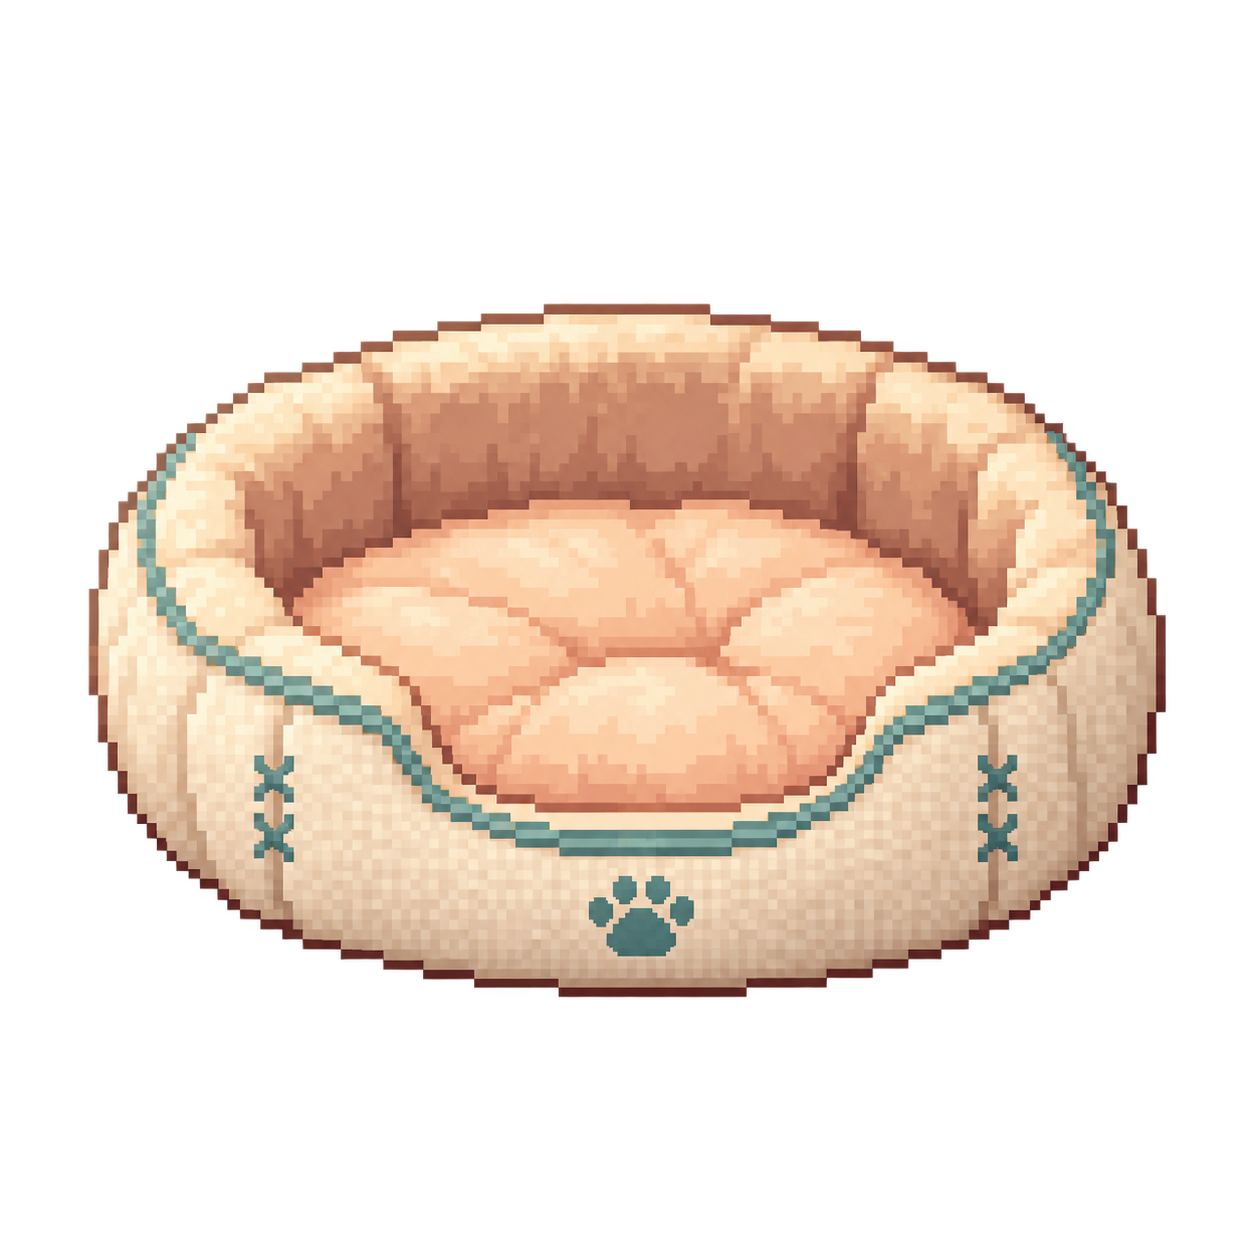
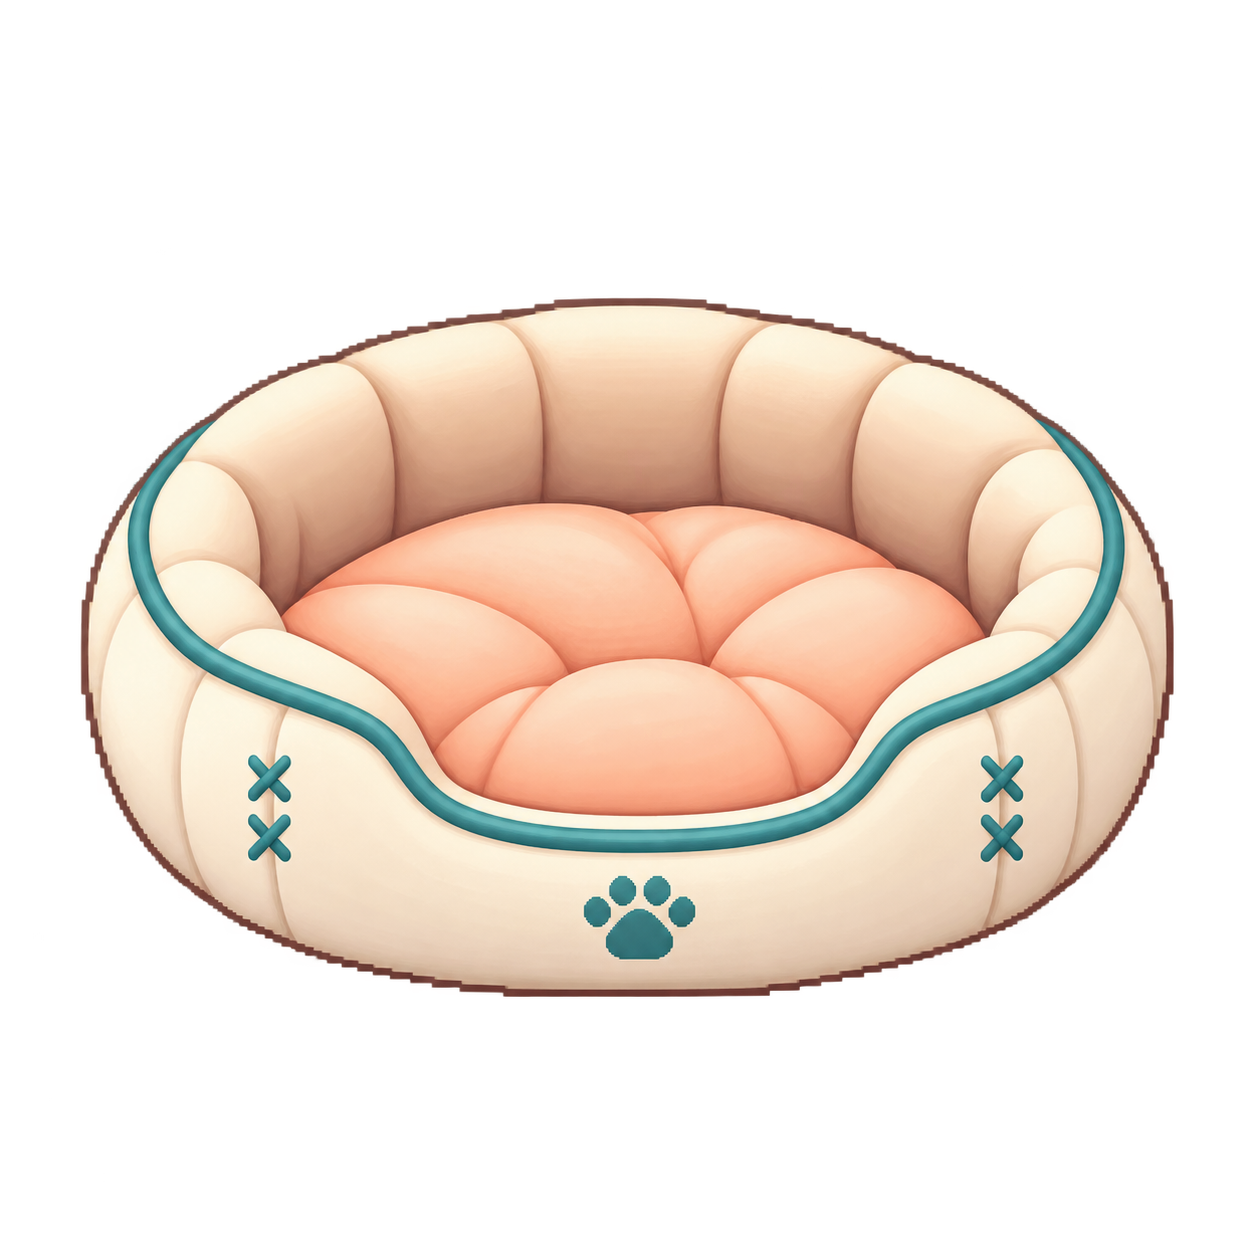
change cat bed design

Changed region(s): [[0.0622, 0.2177, 0.9641, 0.8086], [0.5909, 0.4665, 0.622, 0.4976]]

diff --git a/src/cat/useSharedCatSleepSync.ts b/src/cat/useSharedCatSleepSync.ts
@@ -1,0 +1,82 @@
+'use client';
+
+import { useCallback, useEffect } from 'react';
+
+type SleepSyncClient = {
+  from: (table: string) => any;
+  channel?: (name: string) => any;
+  removeChannel?: (channel: any) => Promise<unknown> | unknown;
+};
+
+/**
+ * Keeps the floating cat-bed sleep state account-scoped across every host.
+ * The database row is the cross-domain source of truth; Realtime makes open
+ * apps react immediately while their existing snapshot reads cover reloads.
+ */
+export function useSharedCatSleepSync(
+  client: SleepSyncClient | null | undefined,
+  userId: string | null | undefined,
+  onSleepChange: (sleeping: boolean) => void,
+) {
+  useEffect(() => {
+    if (!client || !userId) return;
+
+    let cancelled = false;
+    const refresh = async () => {
+      const { data, error } = await client
+        .from('inventory_pet')
+        .select('is_sleeping')
+        .eq('user_id', userId)
+        .maybeSingle();
+      if (!cancelled && !error && typeof data?.is_sleeping === 'boolean') {
+        onSleepChange(data.is_sleeping);
+      }
+    };
+    const handleFocus = () => void refresh();
+    const handleVisibility = () => {
+      if (document.visibilityState === 'visible') void refresh();
+    };
+
+    void refresh();
+    window.addEventListener('focus', handleFocus);
+    document.addEventListener('visibilitychange', handleVisibility);
+
+    const channel = client.channel?.(
+      `shared-cat-sleep:${userId}`,
+    )
+      ?.on(
+        'postgres_changes',
+        { event: 'UPDATE', schema: 'public', table: 'inventory_pet', filter: `user_id=eq.${userId}` },
+        (payload: { new?: { is_sleeping?: boolean | null } }) => {
+          if (typeof payload.new?.is_sleeping === 'boolean') {
+            onSleepChange(payload.new.is_sleeping);
+          }
+        },
+      )
+      .subscribe();
+
+    return () => {
+      cancelled = true;
+      window.removeEventListener('focus', handleFocus);
+      document.removeEventListener('visibilitychange', handleVisibility);
+      if (channel && client.removeChannel) void client.removeChannel(channel);
+      else channel?.unsubscribe?.();
+    };
+  }, [client, onSleepChange, userId]);
+
+  return useCallback(async (sleeping: boolean) => {
+    onSleepChange(sleeping);
+    window.dispatchEvent(new CustomEvent('virtual-pet-sleep-change', { detail: sleeping }));
+    if (!client || !userId) return;
+
+    const { error } = await client
+      .from('inventory_pet')
+      .update({ is_sleeping: sleeping })
+      .eq('user_id', userId);
+    if (error) {
+      onSleepChange(!sleeping);
+      window.dispatchEvent(new CustomEvent('virtual-pet-sleep-change', { detail: !sleeping }));
+      console.error('Failed to synchronize cat sleep state:', error);
+    }
+  }, [client, onSleepChange, userId]);
+}

diff --git a/src/cat/SharedCatMascot.tsx b/src/cat/SharedCatMascot.tsx
@@ -53,6 +53,7 @@ export function SharedCatMascot({
   disabled = false,
   petId,
   isSleeping = false,
+  onSleepingChange,
   dialogue = { kind: 'none' },
   meowMessage = null,
   onCatClick,
@@ -109,6 +110,20 @@ export function SharedCatMascot({
       onArrive?.();
     }, duration * 1000);
   }, [getInterpolatedPos]);
+
+  useEffect(() => {
+    if (isSleeping) {
+      isCatBedActiveRef.current = true;
+      setIsCatBedActive(true);
+      setIsCatBedSleepReady(true);
+      return;
+    }
+    if (isCatBedActiveRef.current && isCatBedSleepReady) {
+      isCatBedActiveRef.current = false;
+      setIsCatBedActive(false);
+      setIsCatBedSleepReady(false);
+    }
+  }, [isCatBedSleepReady, isSleeping]);
 
   useEffect(() => {
     const updateCatBedPosition = () => {
@@ -257,6 +272,7 @@ export function SharedCatMascot({
       isCatBedActiveRef.current = false;
       setIsCatBedActive(false);
       setIsCatBedSleepReady(false);
+      void onSleepingChange?.(false);
       moveCatTo({
         x: Math.max(5, ((bedRect.left - 54) / window.innerWidth) * 100),
         y: Math.min(94, ((bedRect.top + bedRect.height * 0.78) / window.innerHeight) * 100),
@@ -271,7 +287,10 @@ export function SharedCatMascot({
       x: ((bedRect.left + bedRect.width / 2) / window.innerWidth) * 100,
       y: ((bedRect.top + bedRect.height * 0.78) / window.innerHeight) * 100,
     }, () => {
-      if (isCatBedActiveRef.current) setIsCatBedSleepReady(true);
+      if (isCatBedActiveRef.current) {
+        setIsCatBedSleepReady(true);
+        void onSleepingChange?.(true);
+      }
     });
   };
 
@@ -323,7 +342,7 @@ export function SharedCatMascot({
       )}
     </button>
     <div
-      className="molar-cat-wrapper"
+      className={`molar-cat-wrapper ${isCatBedActive ? 'molar-cat-wrapper--bed-active' : ''}`}
       style={{
         left: `${catPos.x}%`,
         top: `${catPos.y}%`,
@@ -331,6 +350,7 @@ export function SharedCatMascot({
         transition: `left ${walkDuration}s linear, top ${walkDuration}s linear`,
       }}
     >
+      <div className="molar-cat-dialogue-layer">
       <AnimatePresence mode="wait">{bubbleContent}</AnimatePresence>
       <AnimatePresence mode="wait">
         {dialogue.kind === 'sequence' && (
@@ -445,6 +465,8 @@ export function SharedCatMascot({
           </motion.div>
         )}
       </AnimatePresence>
+
+      </div>
 
       {!isCatBedSleepReady && (
         <div

diff --git a/src/apps/todo/TodoCatMascot.jsx b/src/apps/todo/TodoCatMascot.jsx
@@ -20,7 +20,7 @@
 // Manual browser parity is the acceptance gate for whether that specific
 // behavioral difference is acceptable.
 import { useCallback, useEffect, useMemo, useRef, useState } from 'react';
-import { SharedCatMascot, useSharedCatDialogueRuntime, readSharedPetName, writeSharedPetName, getSharedPetNameStorageKey, resolveCatAuthStatus } from '../../cat';
+import { SharedCatMascot, useSharedCatDialogueRuntime, useSharedCatSleepSync, readSharedPetName, writeSharedPetName, getSharedPetNameStorageKey, resolveCatAuthStatus } from '../../cat';
 import { normalizePetId } from '../../pet/publicOptions';
 import { usePersonalizedInsightBridge } from './petDialogue/PersonalizedInsightBridge';
 import { CAT_SPRITE_SHEET_URLS } from '../../resources';
@@ -69,6 +69,7 @@ const introCompletedLocally = (uid) => {
 export function createTodoCatMascot(supabase) {
 return function TodoCatMascot({ onCatClick, disabled = false, userId = null, authStatus }) {
   const [isPetSleeping, setIsPetSleeping] = useState(() => readCatStorage(userId, PET_SLEEPING_KEY) === 'true');
+  const handleCatBedSleepChange = useSharedCatSleepSync(supabase, userId, setIsPetSleeping);
   const resolvedAuthStatus = resolveCatAuthStatus(authStatus, disabled, userId);
   const initialPetName = readSharedPetName(userId);
   const [selectedPetId, setSelectedPetId] = useState(() => resolvedAuthStatus === 'guest' || initialPetName ? normalizePetId(initialPetName) : null);
@@ -570,6 +571,7 @@ return function TodoCatMascot({ onCatClick, disabled = false, userId = null, aut
       disabled={disabled}
       petId={selectedPetId}
       isSleeping={isPetSleeping}
+      onSleepingChange={handleCatBedSleepChange}
       dialogue={dialogue}
       meowMessage={meowMsg}
       onCatClick={handleCatClick}

diff --git a/src/apps/InventoryCatMascot.jsx b/src/apps/InventoryCatMascot.jsx
@@ -2,7 +2,7 @@
 import { useState, useEffect, useRef, useMemo } from 'react';
 
 import { normalizePetId } from '../pet/publicOptions';
-import { useSharedCatDialogueRuntime, SharedCatMascot, readSharedPetName, writeSharedPetName, getSharedPetNameStorageKey, resolveCatAuthStatus } from '../cat';
+import { useSharedCatDialogueRuntime, useSharedCatSleepSync, SharedCatMascot, readSharedPetName, writeSharedPetName, getSharedPetNameStorageKey, resolveCatAuthStatus } from '../cat';
 import { CAT_SPRITE_SHEET_URLS } from '../resources';
 import { formatInventoryWelcomeBack } from './inventory/petDialogue/inventoryWelcomeBack';
 
@@ -60,6 +60,7 @@ export default function InventoryCatMascot({ supabase, onCatClick, disabled = fa
   // the Phase 7B user-key auth boundary and any React Strict-Mode-driven
   // remount) that requires explicit manual browser acceptance.
   const [isPetSleeping, setIsPetSleeping] = useState(() => readCatStorage(catCacheOwnerId, PET_SLEEPING_KEY) === 'true');
+  const handleCatBedSleepChange = useSharedCatSleepSync(supabase, catCacheOwnerId, setIsPetSleeping);
   const resolvedAuthStatus = resolveCatAuthStatus(authStatus, disabled, catCacheOwnerId);
   const initialPetName = readSharedPetName(catCacheOwnerId);
   const [selectedPetId, setSelectedPetId] = useState(() => resolvedAuthStatus === 'guest' || initialPetName ? normalizePetId(initialPetName) : null);
@@ -591,6 +592,7 @@ export default function InventoryCatMascot({ supabase, onCatClick, disabled = fa
       disabled={disabled}
       petId={selectedPetId}
       isSleeping={isPetSleeping}
+      onSleepingChange={handleCatBedSleepChange}
       dialogue={dialogue}
       meowMessage={meowMsg}
       onCatClick={handleCatClick}

diff --git a/src/apps/calculator/CalculatorCatMascot.jsx b/src/apps/calculator/CalculatorCatMascot.jsx
@@ -22,7 +22,7 @@
 // parity is the acceptance gate for whether that specific behavioral
 // difference is acceptable.
 import { useCallback, useEffect, useMemo, useRef, useState } from 'react';
-import { SharedCatMascot, useSharedCatDialogueRuntime, readSharedPetName, writeSharedPetName, getSharedPetNameStorageKey, resolveCatAuthStatus } from '../../cat';
+import { SharedCatMascot, useSharedCatDialogueRuntime, useSharedCatSleepSync, readSharedPetName, writeSharedPetName, getSharedPetNameStorageKey, resolveCatAuthStatus } from '../../cat';
 import { normalizePetId } from '../../pet/publicOptions';
 import { usePersonalizedInsightBridge } from './petDialogue/PersonalizedInsightBridge';
 import { CAT_SPRITE_SHEET_URLS } from '../../resources';
@@ -48,6 +48,7 @@ export default function CalculatorCatMascot({ supabase, onCatClick, disabled = f
   const [isPetSleeping, setIsPetSleeping] = useState(() => {
     try { return localStorage.getItem(PET_SLEEPING_KEY) === 'true'; } catch { return false; }
   });
+  const handleCatBedSleepChange = useSharedCatSleepSync(supabase, userId, setIsPetSleeping);
   const resolvedAuthStatus = resolveCatAuthStatus(authStatus, disabled, userId);
   const initialPetName = readSharedPetName(userId);
   const [selectedPetId, setSelectedPetId] = useState(() => resolvedAuthStatus === 'guest' || initialPetName ? normalizePetId(initialPetName) : null);
@@ -567,6 +568,7 @@ export default function CalculatorCatMascot({ supabase, onCatClick, disabled = f
       disabled={disabled}
       petId={selectedPetId}
       isSleeping={isPetSleeping}
+      onSleepingChange={handleCatBedSleepChange}
       dialogue={dialogue}
       meowMessage={meowMsg}
       onCatClick={handleCatClick}

diff --git a/src/apps/elearning/ElearningCatMascot.jsx b/src/apps/elearning/ElearningCatMascot.jsx
@@ -3,7 +3,7 @@ import { useState, useEffect, useRef, useMemo } from 'react';
 import { normalizePetId } from '../../pet/publicOptions';
 import { usePersonalizedInsightBridge } from './petDialogue/PersonalizedInsightBridge';
 import { CAT_SPRITE_SHEET_URLS } from '../../resources';
-import { useSharedCatDialogueRuntime, SharedCatMascot, readSharedPetName, writeSharedPetName, getSharedPetNameStorageKey, resolveCatAuthStatus } from '../../cat';
+import { useSharedCatDialogueRuntime, useSharedCatSleepSync, SharedCatMascot, readSharedPetName, writeSharedPetName, getSharedPetNameStorageKey, resolveCatAuthStatus } from '../../cat';
 
 const PET_SLEEPING_KEY = 'pet_is_sleeping';
 const PET_SLEEPING_UPDATED_AT_KEY = 'pet_is_sleeping_updated_at';
@@ -22,6 +22,7 @@ return function ElearningCatMascot({ onCatClick, disabled = false, userId = null
   const [isPetSleeping, setIsPetSleeping] = useState(() => {
     try { return localStorage.getItem(PET_SLEEPING_KEY) === 'true'; } catch { return false; }
   });
+  const handleCatBedSleepChange = useSharedCatSleepSync(supabase, userId, setIsPetSleeping);
   const resolvedAuthStatus = resolveCatAuthStatus(authStatus, disabled, userId);
   const initialPetName = readSharedPetName(userId);
   const [selectedPetId, setSelectedPetId] = useState(() => resolvedAuthStatus === 'guest' || initialPetName ? normalizePetId(initialPetName) : null);
@@ -547,6 +548,7 @@ return function ElearningCatMascot({ onCatClick, disabled = false, userId = null
       disabled={disabled}
       petId={selectedPetId}
       isSleeping={isPetSleeping}
+      onSleepingChange={handleCatBedSleepChange}
       dialogue={dialogue}
       meowMessage={meowMsg}
       onCatClick={handleCatClick}

diff --git a/src/apps/AppointmentCatMascot.jsx b/src/apps/AppointmentCatMascot.jsx
@@ -1,6 +1,6 @@
 'use client';
 import { useState, useEffect, useRef } from 'react';
-import { useSharedCatDialogueRuntime, SharedCatMascot, readSharedPetName, writeSharedPetName, getSharedPetNameStorageKey, resolveCatAuthStatus } from '../cat';
+import { useSharedCatDialogueRuntime, useSharedCatSleepSync, SharedCatMascot, readSharedPetName, writeSharedPetName, getSharedPetNameStorageKey, resolveCatAuthStatus } from '../cat';
 
 import { normalizePetId } from '../pet/publicOptions';
 import { CAT_SPRITE_SHEET_URLS } from '../resources';
@@ -31,6 +31,7 @@ const writeCatStorage = (userId, key, value) => {
 
 export default function AppointmentCatMascot({ supabase, onCatClick, disabled = false, personalizedInsightState = null, catCacheOwnerId = null, authStatus }) {
   const [isPetSleeping, setIsPetSleeping] = useState(() => readCatStorage(catCacheOwnerId, PET_SLEEPING_KEY) === 'true');
+  const handleCatBedSleepChange = useSharedCatSleepSync(supabase, catCacheOwnerId, setIsPetSleeping);
   const resolvedAuthStatus = resolveCatAuthStatus(authStatus, disabled, catCacheOwnerId);
   const initialPetName = readSharedPetName(catCacheOwnerId);
   const [selectedPetId, setSelectedPetId] = useState(() => resolvedAuthStatus === 'guest' || initialPetName ? normalizePetId(initialPetName) : null);
@@ -563,6 +564,7 @@ export default function AppointmentCatMascot({ supabase, onCatClick, disabled = 
       disabled={disabled}
       petId={selectedPetId}
       isSleeping={isPetSleeping}
+      onSleepingChange={handleCatBedSleepChange}
       dialogue={dialogue}
       meowMessage={meowMsg}
       onCatClick={handleCatClick}

diff --git a/src/apps/superapp/SuperappCatMascot.tsx b/src/apps/superapp/SuperappCatMascot.tsx
@@ -1,5 +1,5 @@
 import { useEffect, useMemo, useRef, useState } from 'react';
-import { SharedCatMascot, readSharedPetName, writeSharedPetName, getSharedPetNameStorageKey, resolveCatAuthStatus } from '../../cat';
+import { SharedCatMascot, useSharedCatSleepSync, readSharedPetName, writeSharedPetName, getSharedPetNameStorageKey, resolveCatAuthStatus } from '../../cat';
 import type { CatDialoguePresentation, CatAuthStatus } from '../../cat';
 import { normalizePetId } from '../../pet/publicOptions';
 import { CAT_SPRITE_SHEET_URLS } from '../../resources';
@@ -97,6 +97,7 @@ export default function CatMascot({
 }: CatMascotProps) {
   const { supabase } = getSuperappHostDependencies();
   const [isPetSleeping, setIsPetSleeping] = useState(() => readCatStorage(catCacheOwnerId, PET_SLEEPING_KEY) === 'true');
+  const handleCatBedSleepChange = useSharedCatSleepSync(supabase, catCacheOwnerId, setIsPetSleeping);
   const resolvedAuthStatus = resolveCatAuthStatus(authStatus, disabled, catCacheOwnerId);
   const initialPetName = readSharedPetName(catCacheOwnerId);
   const [selectedPetId, setSelectedPetId] = useState<string | null>(() => resolvedAuthStatus === 'guest' || initialPetName ? normalizePetId(initialPetName) : null);
@@ -997,6 +998,7 @@ export default function CatMascot({
       disabled={disabled}
       petId={selectedPetId}
       isSleeping={isPetSleeping}
+      onSleepingChange={handleCatBedSleepChange}
       dialogue={dialoguePresentation}
       meowMessage={meowMsg}
       onCatClick={handleCatClick}

diff --git a/src/apps/image-generator/ContentStudioCatMascot.jsx b/src/apps/image-generator/ContentStudioCatMascot.jsx
@@ -1,6 +1,6 @@
 "use client";
 import { useState, useEffect, useRef } from 'react';
-import { SharedCatMascot, useSharedCatDialogueRuntime, readSharedPetName, writeSharedPetName, getSharedPetNameStorageKey } from '../../cat';
+import { SharedCatMascot, useSharedCatDialogueRuntime, useSharedCatSleepSync, readSharedPetName, writeSharedPetName, getSharedPetNameStorageKey } from '../../cat';
 import { normalizePetId } from '../../pet/publicOptions';
 import { usePersonalizedInsightBridge } from './petDialogue/PersonalizedInsightBridge';
 import { CAT_SPRITE_SHEET_URLS } from '../../resources';
@@ -38,6 +38,7 @@ export default function ContentStudioCatMascot({ supabase, onCatClick, disabled 
     if (initialIsSleeping) return true;
     try { return localStorage.getItem(PET_SLEEPING_KEY) === 'true'; } catch { return false; }
   });
+  const handleCatBedSleepChange = useSharedCatSleepSync(supabase, userId, setIsPetSleeping);
   // initialPetName comes from the server (layout.tsx) and is always correct;
   // fall back to localStorage for client-only apps (all other 6 apps).
   const initialResolvedPetName = initialPetName ?? readSharedPetName(userId);
@@ -520,6 +521,7 @@ export default function ContentStudioCatMascot({ supabase, onCatClick, disabled 
       disabled={disabled}
       petId={selectedPetId}
       isSleeping={isPetSleeping}
+      onSleepingChange={handleCatBedSleepChange}
       dialogue={dialogue}
       meowMessage={meowMsg}
       onCatClick={() => {

diff --git a/src/cat/presentation.ts b/src/cat/presentation.ts
@@ -43,6 +43,9 @@ export interface SharedCatMascotProps {
   disabled?: boolean;
   petId?: string | null;
   isSleeping?: boolean;
+  /** Persists a bed-triggered sleep/wake change through the host's shared
+   * account store so every mini app reflects the same state. */
+  onSleepingChange?: (sleeping: boolean) => void | Promise<void>;
   /** Defaults to `{ kind: 'none' }` — a host that hasn't wired dialogue
    *  presentation yet still renders a valid, dialogue-less Cat. */
   dialogue?: CatDialoguePresentation;

diff --git a/src/styles/index.css b/src/styles/index.css
@@ -98,9 +98,17 @@
   bottom: 7px;
   width: 80.64px;
   height: 87.36px;
-  transform: translateX(-50%) scale(0.68);
+  transform: translateX(-50%) scale(0.56);
   transform-origin: 50% 100%;
   pointer-events: none;
+}
+
+.snabbb-molar-experience .molar-cat-dialogue-layer {
+  display: contents;
+}
+
+.snabbb-molar-experience .molar-cat-wrapper--bed-active .molar-cat-dialogue-layer {
+  display: none;
 }
 
 .snabbb-molar-experience .molar-cat-bed__sleeping-cat .molar-cat-sprite {

diff --git a/src/cat/index.ts b/src/cat/index.ts
@@ -1,4 +1,5 @@
 export { SharedCatMascot } from './SharedCatMascot';
+export { useSharedCatSleepSync } from './useSharedCatSleepSync';
 export { SharedCatPreviewProvider, useSharedCatPreview, SharedPreviewCatMascot } from './SharedCatPreview';
 export type { SharedCatMascotProps, SharedCatPetId, CatDialoguePresentation } from './presentation';
 export { useSharedCatDialogueRuntime } from './runtime';
